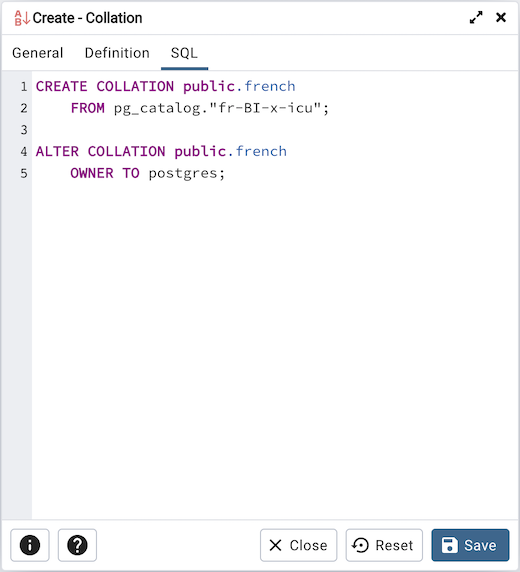
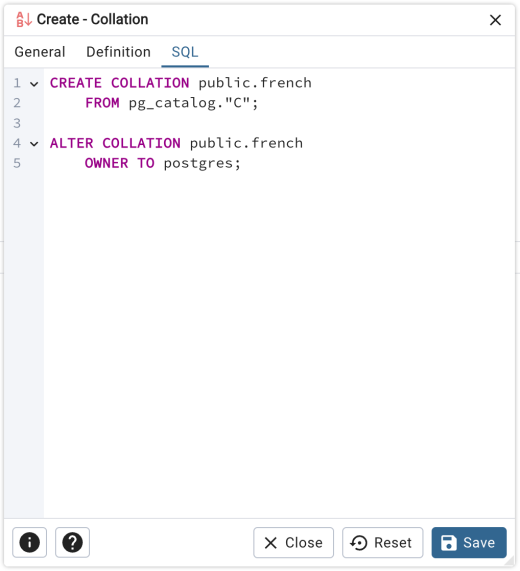
Added support for provider, deterministic, version and RULES parameter while creating collation. #5611

Changed region(s): [[0.0, 0.0, 1.0, 1.0]]

diff --git a/web/pgadmin/browser/server_groups/servers/databases/schemas/collations/static/js/collation.ui.js b/web/pgadmin/browser/server_groups/servers/databases/schemas/collations/static/js/collation.ui.js
@@ -89,7 +89,7 @@ export default class CollationSchema extends BaseUISchema {
         readonly: function (state) { return !obj.isNew(state); },
         deps: ['lc_collate', 'lc_type', 'copy_collation'],
         disabled: function (state) {
-          // Enable localy only if lc_* & copy_collation is not provided
+          // Enable locale only if lc_* & copy_collation is not provided
           if (state.lc_collate || state.lc_type)
             return true;
           return state.copy_collation;
@@ -108,6 +108,68 @@ export default class CollationSchema extends BaseUISchema {
         readonly: function (state) { return !obj.isNew(state); },
         disabled: obj.disableFields,
         deps: ['locale', 'copy_collation'],
+      },
+      {
+        id: 'provider', label: gettext('Locale Provider'),
+        editable: false, type: 'select',mode: ['create', 'edit'], group: gettext('Definition'),
+        readonly: function (state) { return !obj.isNew(state); },
+        options: [{
+          label: gettext('icu'),
+          value: 'icu',
+        }, {
+          label: gettext('libc'),
+          value: 'libc',
+        }],
+        min_version: 120000,
+        deps: ['copy_collation'],
+        disabled: function (state) {
+          return state.copy_collation;
+        }
+      },
+      {
+        id: 'provider', label: gettext('Locale Provider'),
+        type: 'text',mode: ['properties'], group: gettext('Definition'),
+        readonly: true,
+        min_version: 120000,
+      },
+      {
+        id: 'is_deterministic', label: gettext('Deterministic'),
+        type: 'switch', group: gettext('Definition'),
+        default: false,
+        readonly: function (state) { return !obj.isNew(state); },
+        mode: ['properties', 'edit', 'create'],
+        min_version: 120000,
+        helpMessageMode: ['edit', 'create'],
+        deps: ['copy_collation'],
+        disabled: function (state) {
+          return state.copy_collation;
+        }
+      },
+      {
+        id: 'rules', label: gettext('Rules'),
+        editable: true, type: 'text', group: gettext('Definition'),
+        readonly: function (state) { return !obj.isNew(state); },
+        mode: ['properties', 'edit', 'create'],
+        deps: ['provider','is_deterministic','copy_collation'],
+        depChange: (state)=>{
+          if (state.provider !== 'icu')
+            return { rules: '' };
+        },
+        disabled: function(state) {
+          if (state.copy_collation)
+            return true;
+          return state.provider !== 'icu' || (state.provider == 'icu' && state.is_deterministic);
+        },
+        min_version: 160000,
+      },
+      {
+        id: 'version', label: gettext('Version'), type: 'text', group: gettext('Definition'),
+        readonly: function (state) { return !obj.isNew(state); },
+        mode: ['properties','create', 'edit'], min_version: 120000,
+        deps: ['copy_collation'],
+        disabled: function (state) {
+          return state.copy_collation;
+        }
       },
       {
         id: 'is_sys_obj', label: gettext('System collation?'),
@@ -164,4 +226,3 @@ export default class CollationSchema extends BaseUISchema {
   }
 
 }
-

diff --git a/web/pgadmin/browser/server_groups/servers/databases/schemas/collations/tests/test_collation_put.py b/web/pgadmin/browser/server_groups/servers/databases/schemas/collations/tests/test_collation_put.py
@@ -28,6 +28,10 @@ class CollationPutTestCase(BaseTestGenerator):
 
     def setUp(self):
         super().setUp()
+        if hasattr(self, 'inventory_data') and \
+                self.server_information['server_version'] \
+                < self.inventory_data['server_min_version']:
+            self.skipTest(self.inventory_data['skip_msg'])
         self.schema_info = parent_node_dict["schema"][-1]
         self.schema_name = self.schema_info["schema_name"]
         self.db_name = parent_node_dict["database"][-1]["db_name"]

diff --git a/web/pgadmin/browser/server_groups/servers/databases/schemas/collations/tests/test_collation_sql.py b/web/pgadmin/browser/server_groups/servers/databases/schemas/collations/tests/test_collation_sql.py
@@ -27,6 +27,10 @@ class CollationSqlTestCase(BaseTestGenerator):
 
     def setUp(self):
         super().setUp()
+        if hasattr(self, 'inventory_data') and \
+                self.server_information['server_version'] \
+                < self.inventory_data['server_min_version']:
+            self.skipTest(self.inventory_data['skip_msg'])
         self.schema_info = parent_node_dict["schema"][-1]
         self.schema_name = self.schema_info["schema_name"]
         self.schema_id = self.schema_info["schema_id"]

diff --git a/web/pgadmin/browser/server_groups/servers/databases/schemas/collations/tests/test_collation_get.py b/web/pgadmin/browser/server_groups/servers/databases/schemas/collations/tests/test_collation_get.py
@@ -27,6 +27,10 @@ class CollationGetTestCase(BaseTestGenerator):
 
     def setUp(self):
         super().setUp()
+        if hasattr(self, 'inventory_data') and \
+                self.server_information['server_version']\
+                < self.inventory_data['server_min_version']:
+            self.skipTest(self.inventory_data['skip_msg'])
         self.schema_info = parent_node_dict["schema"][-1]
         self.schema_name = self.schema_info["schema_name"]
         self.schema_id = self.schema_info["schema_id"]

diff --git a/web/pgadmin/browser/server_groups/servers/databases/schemas/collations/tests/test_collation_add.py b/web/pgadmin/browser/server_groups/servers/databases/schemas/collations/tests/test_collation_add.py
@@ -77,6 +77,9 @@ class CollationAddTestCase(BaseTestGenerator):
         self.test_data['name'] = "collation_add_%s" % str(uuid.uuid4())[1:8]
         self.test_data['owner'] = self.server["username"]
         self.test_data['schema'] = self.schema_name
+        self.test_data['provider'] = "icu"
+        self.test_data['is_deterministic'] = True
+        self.test_data['version'] = "test"
 
         if self.is_positive_test:
             response = self.create_collation()

diff --git a/docs/en_US/collation_dialog.rst b/docs/en_US/collation_dialog.rst
@@ -50,6 +50,16 @@ settings:
 * Use the *LC_CTYPE* field to specify a locale with specified character
   classification. The locale must be applicable to the current database encoding.
   (See CREATE DATABASE for details.)
+* Use the drop-down listbox next to *Locale Provider* to select a locale services associated
+  with the collation. Possible values are: icu, libc. libc is the default.
+* Move the switch next to *Deterministic* to *YES* to specify whether the collation should use
+  deterministic comparisons. By default, this option is set to true. In a
+  deterministic comparison, strings that are not byte-wise equal are considered
+  unequal, even if they are considered logically equal in the comparison.
+* Use the *Rules* field to specify a rules for customizing the behavior of the collation.
+  It includes considerations such as character ordering, case sensitivity, and accent
+  sensitivity.
+* Use the *Version* field to specify version string to store with the collation object.
 
 
 Click the *SQL* tab to continue.
